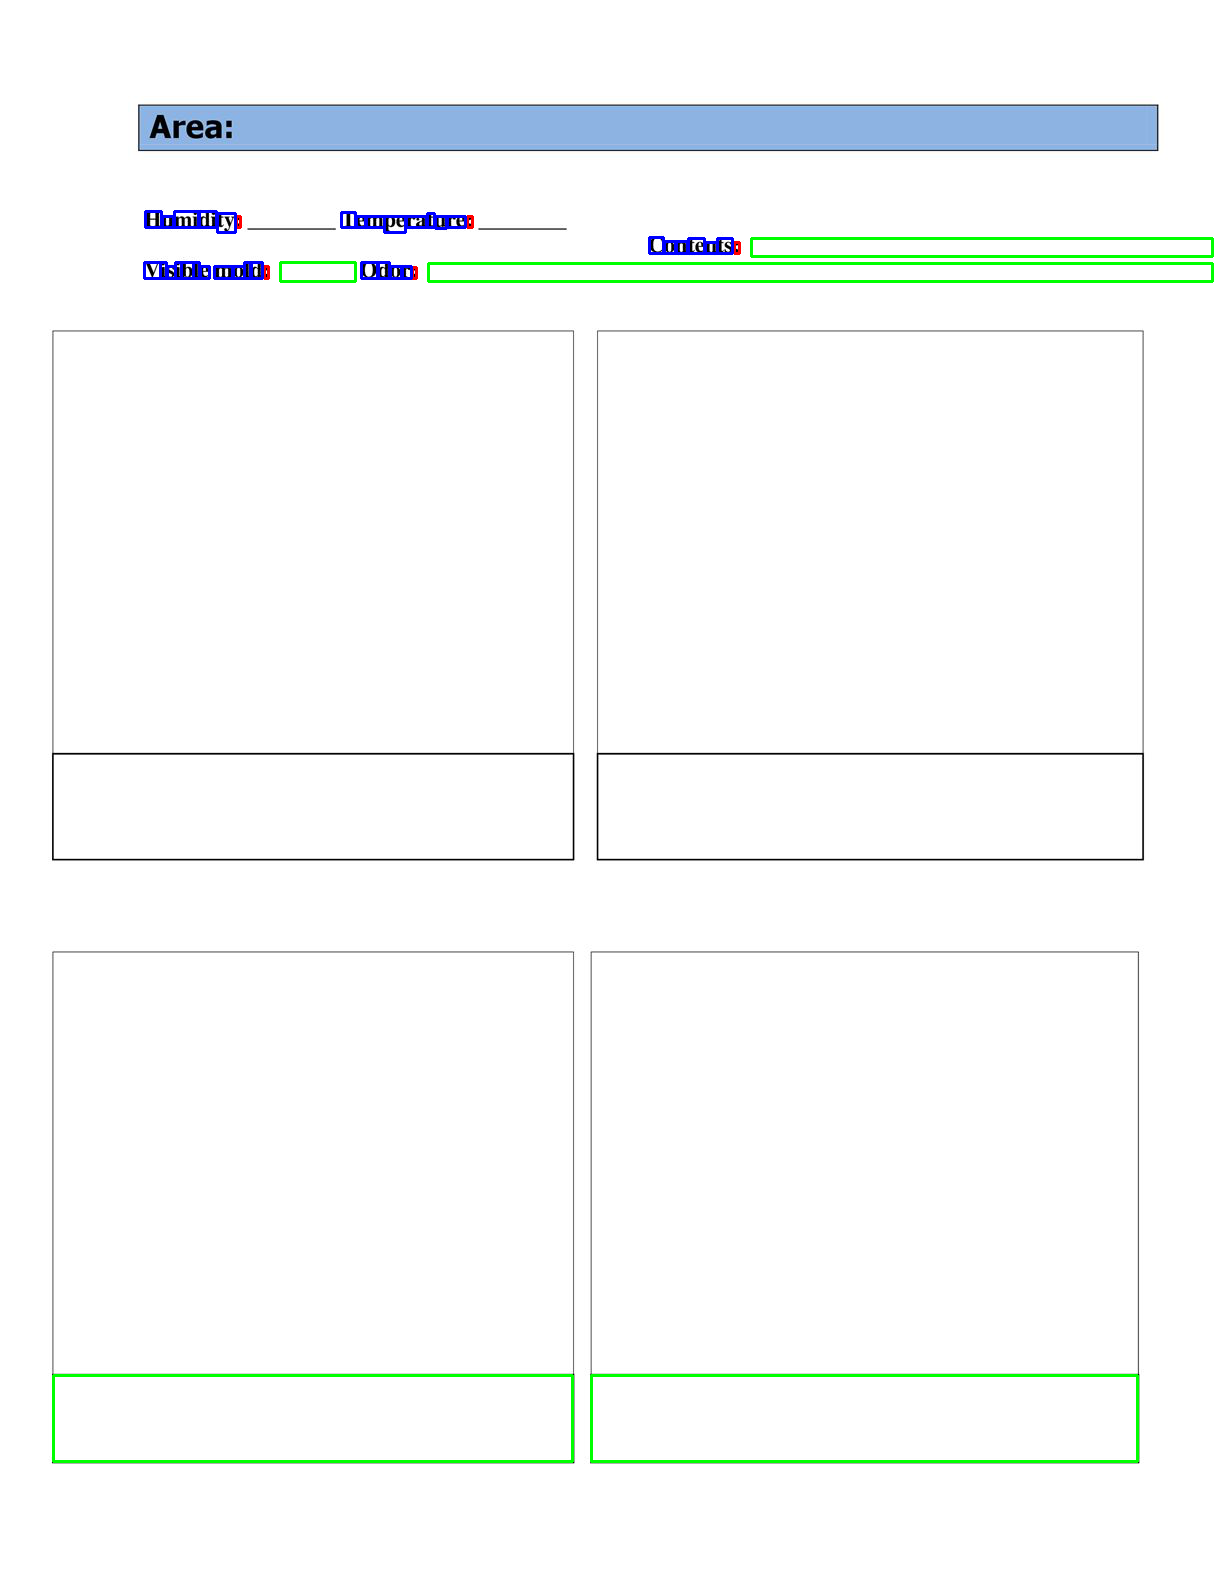
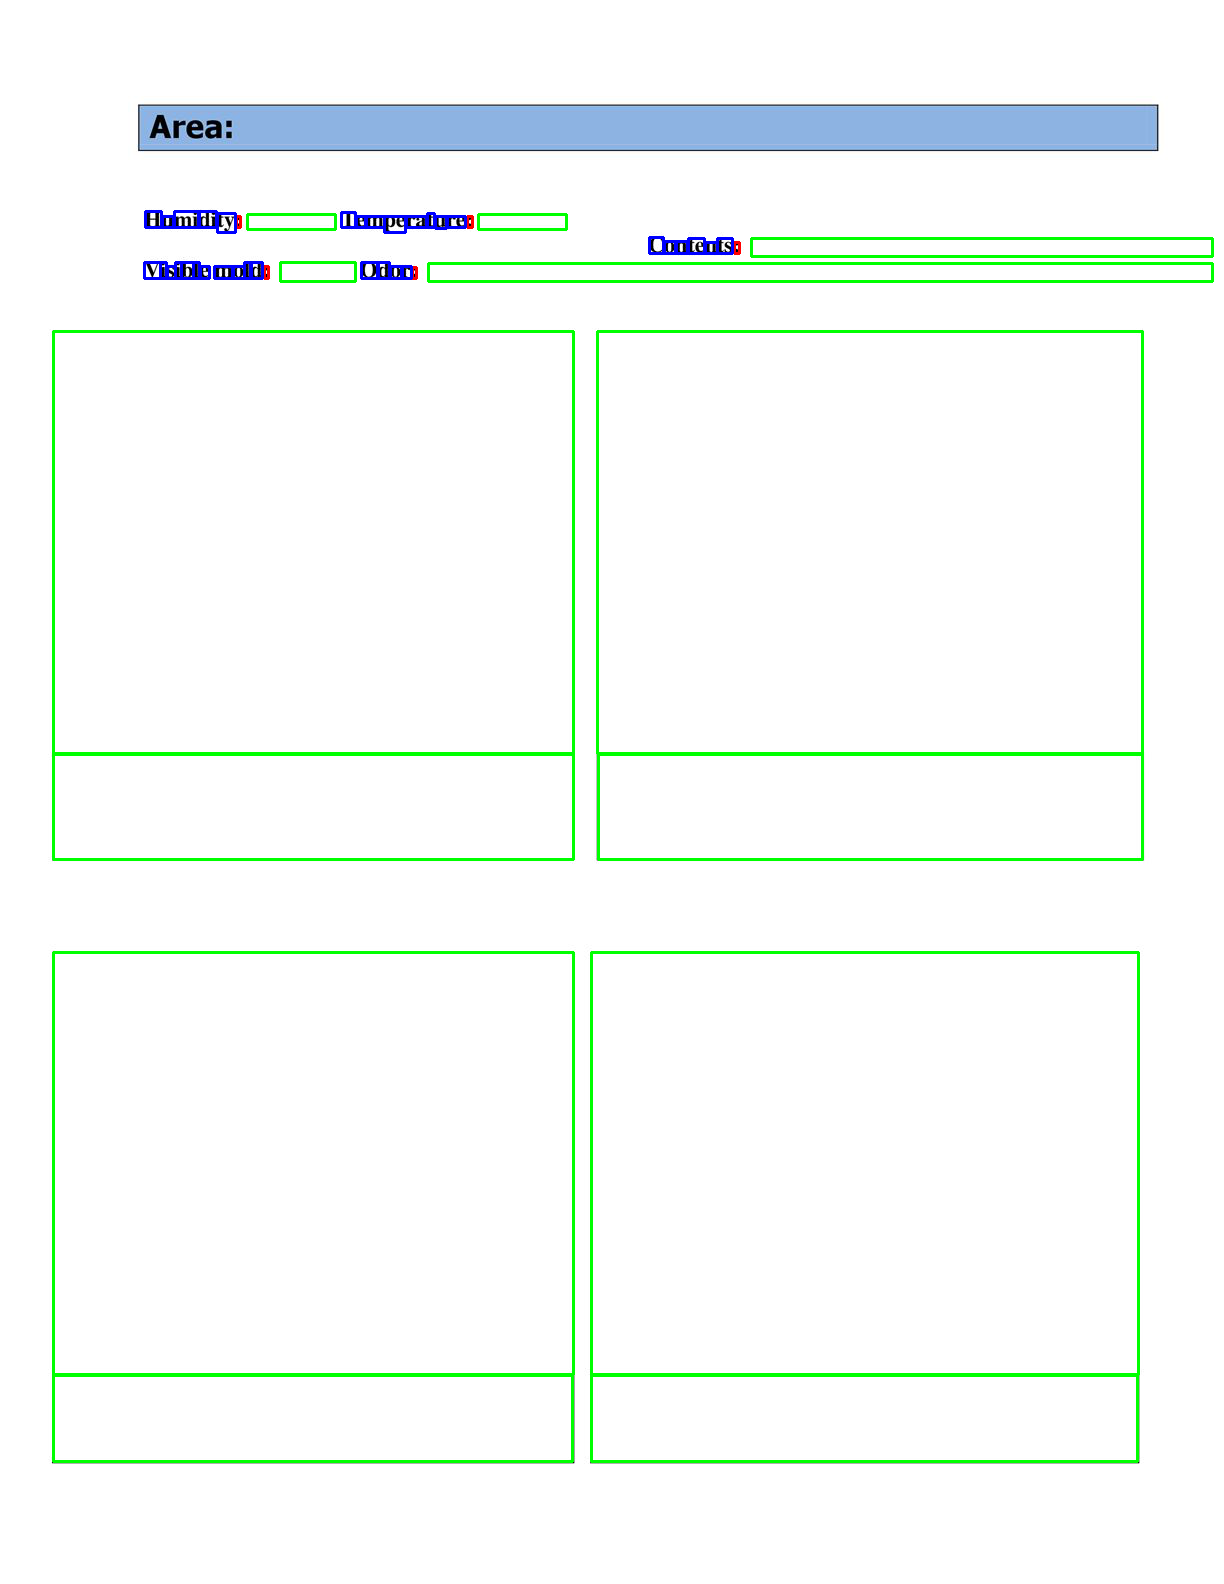
fix: fixed colored fields being mislabeled as fields
Colored fields with "contours" were being misclassified as fields. I removed all fields that had a grayscale values < 230 (out of 255)

diff --git a/FormReader/FormReader.py b/FormReader/FormReader.py
@@ -133,13 +133,22 @@ class Image_Data:
     def get_array_size(self):
         contours_to_keep = []
         for i, contour in enumerate(self.real_contours):
-
             try:
                 new_contour, sample = self.resize_contour(contour)
-                ret, sample_thresh = cv2.threshold(sample, 127, 255, cv2.THRESH_BINARY)
-                sample_image, sample_contours, sample_hierarchy = cv2.findContours(sample_thresh, cv2.RETR_TREE, cv2.CHAIN_APPROX_SIMPLE)
-                if len(sample_contours) < 2:
-                    contours_to_keep.append(new_contour)
+                print np.mean(sample)
+                if np.mean(sample) > 230:
+
+
+                # mean_gray = np.mean(mean_color)
+                # print mean_gray
+                # color_diff = mean_color - mean_gray
+                # print color_diff
+
+                    ret, sample_thresh = cv2.threshold(sample, 127, 255, cv2.THRESH_BINARY)
+                    sample_image, sample_contours, sample_hierarchy = cv2.findContours(sample_thresh, cv2.RETR_TREE,
+                                                                                       cv2.CHAIN_APPROX_SIMPLE)
+                    if len(sample_contours) <= 2:
+                        contours_to_keep.append(new_contour)
             except:
                 next
 
@@ -197,16 +206,15 @@ class Image_Data:
         sample = self.imggray_original[min_y + 3:max_y - 3, min_x + 3:max_x - 3]
 
         # check if there are characters in contour
-        char_conditions = (min_x < self.x_vals_w) & (max_x > self.x_vals_e) & (min_y < self.y_vals_s) & (max_y > self.y_vals_n)
+        char_conditions = (min_x < self.x_vals_w) & (max_x > self.x_vals_e) & \
+                          (min_y < self.y_vals_s) & (max_y > self.y_vals_n)
         contains_chars = np.array(self.char_list)[char_conditions]
 
         # check if the contour is big enough
         area_condition_mult = (area > 2 * self.window_height * self.window_width)
         area_condition_size = (max_x - min_x > self.window_width)
 
-        if (area_condition_mult) & (area_condition_size):
+        if area_condition_mult & area_condition_size:
             if max_x - min_x > max_y - min_y:
                 if len(contains_chars) == 0:
-                    print np.unique(sample)
                     return new_contour, sample
-                    # if len(np.unique(sample)) <= 3:
